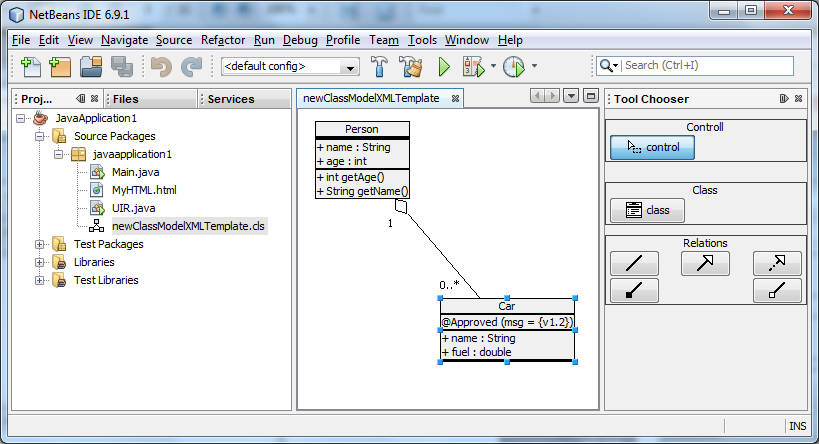
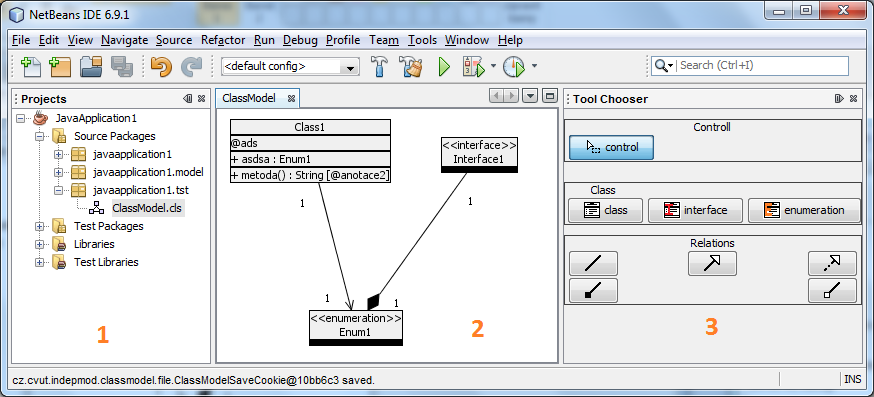
documentation

diff --git a/documentation/bachelor thesis/5_application.tex b/documentation/bachelor thesis/5_application.tex
@@ -1,6 +1,6 @@
-\chapter{Architecture}
+\chapter{Application Architecture and its Implementation}
 
-In the Figure \ref{f-screenSmallModule} you can see the print screen of running application. The whole window system (window, menus, etc.) is provided by Netbeans platform. On the left side you can see the project tree, which is the standard component of Netbeans platform (frequently used e.g. in Netbeans IDE). Next to the project tree there is a workspace where user can create and manage his/her class model. On the right side there is a panel, called Tool Chooser, which is used for tool selection (tool for new class addition, etc.).
+In the Figure \ref{f-screenSmallModule} you can see the print screen of the running application. The whole window system (window, menus, etc.) is provided by Netbeans platform. On the left side (number 1) you can see the project tree, which is the standard component of Netbeans platform (frequently used e.g. in Netbeans IDE). Next to the project tree there is a workspace (number 2) where user can create and manage his/her class model. On the right side there is a panel (number 3), called Tool Chooser, which is used for tool selection (tool for new class addition, etc.).
 
 \begin{figure}[!ht]
 \begin{center}
@@ -15,7 +15,7 @@ Indepmod Class Notation plugin consists of several modules which provides its fu
 \begin{itemize}
 	\item Editor - the main module of the Indepmod Class Notation plugin. This module takes care about whole class modeling. It handles the workspace and its user interface can be seen in the Figure \ref{f-screenSmallModule} between Project Tree and Tool Chooser panels. The workspace has a JGraph inside which controls whole class modeling.
     \item API - this module provides a public API (interfaces). Implementations of these interfaces can be found (e.g. by other Netbeans plugins) in the Lookup of the workspace (part of the Editor module). This module is public so it can be used (imported as a library) by any other plugin.
-    \item Tool Chooser - allows the user to choose a tool of actual selected workspace. The user interface of the module is a panel with single tools in it (e.g. a class or a relation between classes).
+    \item Tool Chooser - allows user to choose a tool of actual selected workspace. The user interface of the module is a panel with single tools in it (e.g. a class or a relation between classes).
     \item JGraph - this module is used as a library wrap for JGraph (it allows other modules to use JGraph framework).
 \end{itemize} 
 
@@ -24,14 +24,14 @@ Figure \ref{f-Editor_ToolChooser_Components} illustrates the relation between Ed
 \begin{figure}[!ht]
 \begin{center}
 \includegraphics{img/Editor_ToolChooser_Components.png}
-\caption{Component diagram of Editor and ToolChooser Modules}
+\caption{Component diagram of Editor and ToolChooser Modules (created in Enterprise Architect)}
 \label{f-Editor_ToolChooser_Components}
 \end{center}
 \end{figure}
 
 \section{API Module}
 
-This module defines interfaces (or classes) whose implementations can be found in the lookup of the workspace (workspace is the part of the editor module). This module is public so it can be used by any other module (or any other plugin). There are two packages in this module:
+This module defines interfaces whose implementations can be found in the lookup of the workspace (workspace is the part of the editor module). Purpose of these interfaces are described in next sections. This module is public so it can be used by any other module (or any other plugin). There are two packages in this module:
 
 \begin{itemize}
     \item cz.cvut.indepmod.classmodel.api.model
@@ -41,7 +41,7 @@ This module defines interfaces (or classes) whose implementations can be found i
 \subsection{ClassModel API}
 \label{section:classModelAPI}
 
-This package contains interfaces whose implementation can be used to access the information about class model. Lookup of the workspace contains the implementation of the IClassModelModel interface. This object provides the information about the type of a model (business model / class model), list of elements from the model (IElement interface) and the picture of the model. IElement represents a class, an interface or an enumeration. Elements provides the list of annotations (IAnotation interface), attributes (IAttribute interface), methods (IMethod interface) and relations to other classes(IRelation interface). And so on with the attributes, etc. 
+This package contains interfaces whose implementation can be used to access the information about class model. Lookup of the workspace contains the implementation of the IClassModelModel interface. This object provides the information about the type of a model (business model / class model), list of elements from the model (IElement interface) and the picture of the model. IElement represents a class, an interface or an enumeration. Elements provides the list of annotations (IAnotation interface), attributes (IAttribute interface), methods (IMethod interface) and relations to other classes(IRelation interface). And so on with the attributes, etc. These interfaces represents the structure of the class model meta-model, described in section \ref{classModelMetaModel}.
 
 Relation between (two) classes is represented by instance of IRelation interface. IElement returns the list of IRelations that belongs to it. IRelation holds information about its type (simple relation, composition, agregation, generalization, implementation) and about what element is at the beginning and at the end of the relation, including cardinalities. 
 
@@ -121,12 +121,12 @@ In the layer.xml file there is set the action for opening the ToolChooser (in ru
 
 \section{Editor Module}
 
-This is the fundamental module whose purpose is to create a workspace which provides the class modeling. For graphical part of class modeling is used framework JGraph (\url{http://www.jgraph.com}). More info about JGraph framework can be found in \cite{jgraphmanual}.
+This is the fundamental module whose purpose is to create a workspace which provides the class modeling. For graphical part of class modeling is used framework JGraph (\cite{JGraphWeb}). More info about JGraph framework can be found in \cite{jgraphmanual}.
 
 \subsection{Module Structure}
 \label{section:editorModuleStructure}
 
-Main class (part of the cz.cvut.indepmod.classmodel.workspace package), which comprises the workspace, is the ClassModelWorkspace. Thus, if you want to study the code, you should start right here. ClassModelWorkspace is extended from the TopComponent. This class is responsible for whole initialization. It creates:
+Main class (part of the cz.cvut.indepmod.classmodel.workspace package), which represents the workspace, is the ClassModelWorkspace. Thus, if you want to study the code, you should start right here. ClassModelWorkspace is extended from the TopComponent. This class is responsible for whole initialization. It creates:
 \begin{itemize}
     \item ClassModelGraph - this class is extended from JGraph and represents the class model graph to the user. Instance of this class is situated inside the ClassModelWorkspace component (JGraph is also derived from JComponent)
     \item ClassModelModel - Implementation of IClassModelModel which returns the list of classes that are in the class model and the type of the diagram (class or business model). The purpose of IClassModelModel interface is described in the section \ref{section:classModelAPI}.
@@ -135,7 +135,7 @@ Main class (part of the cz.cvut.indepmod.classmodel.workspace package), which co
 
 ClassModelWorkspace is simply JComponent (TopComponent) which has the JGraph inside. JGraph presents the class model to the user. There are cells (representing classes) which are related together by edges (representing relations).
 
-In next section I will try to describe the implementation of the Editor Module. I Will start from the initialization and after that I will try to explain every part that is created during the initialization.
+In the next section I will try to describe the implementation of the Editor Module. I Will start from the initialization and after that I will try to explain every part that is created during the initialization.
 
 \subsection{Editor Module Initialisation}
 
@@ -268,12 +268,12 @@ These methods are treated as template methods so they can be overrode. The abstr
 
 The BusinessModelEditClassDialog is extended from the abstract controller and overrides methods that creates annotation and method panels. It overrides them in a way that it returns an null pointer. The abstract view compose its UI of these parts and when a part is null, it is not added there. The ClassModelEditClassDialog does not override any method because all desired functionality is done in its predecessors.
 
-These dialogs are created by an Abstract Factory. The Abstract Factory is situated in the cz.cvut.indepmod.classmodel.frames.dialogs.factory package and is called AbstractDialogFactory. It has a static method which accepts the type of the diagram and returns an instance of a concrete factory. This concrete factory creates the dialog. Please take a look at the javadoc of this project for more information about the names of methods, etc. For more information about the Abstract Factory design pattern take a look at the \cite{DesignPatterns}.
+These dialogs are created by an Abstract Factory. The Abstract Factory class is placed in the cz.cvut.indepmod.classmodel.frames.dialogs.factory package and is called AbstractDialogFactory. It has a static method which accepts the type of the diagram and returns an instance of a concrete factory. This concrete factory creates the dialog. Please take a look at the javadoc of this project for more information about the names of methods, etc. For more information about the Abstract Factory design pattern take a look at the \cite{DesignPatterns}.
 
 \subsection{Persistence}
 \label{subsection:persistence}
 
-Persistence layer implementation is situated in the cz.cvut.indepmod.classmodel.persistence.xml package. There is a ClassModelXMLCoder class that is created as a singleton. Instance of this class is responsible for encoding and decoding the ClassModelDiagramDataModel instance into or from a stream (InputStream or OutputStream). Its method for encoding, encode(ClassModelDiagramDataModel model, OutputStream stream), is called by SaveCookie (discussed in the section \ref{subsection:lookup}).
+Persistence layer implementation is situated in the cz.cvut.indepmod.classmodel.persistence.xml package. There is a ClassModelXMLCoder class that is created as a singleton. Instance of this class is responsible for encoding and decoding the ClassModelDiagramDataModel instance into or from a stream (InputStream or OutputStream). Its method for encoding, \texttt{encode(ClassModelDiagramDataModel model, OutputStream stream)}, is called by SaveCookie (discussed in the section \ref{subsection:lookup}).
 
 ClassModelXMLCoder uses java.beans.XMLEncoder and java.beans.XMLDecoder. This creates the xml file that represents the steps to create the exactly same object that was encoded. Because XMLEncoder can encode in default only some types of objects, there are some persistence delegates that allow to encode particular object I use. These persistence delegates can be found in the cz.cvut.indepmod.classmodel.persistence.xml.delegate package.
 
@@ -299,7 +299,7 @@ ToolChooserModel instance is used by ToolChooser Module to set the desired tool.
 
 ClassModelModel instance implements the IClassModelModel interface and can be also used by other plugins. It provides the Class Model API to the outside world. Thanks to this there can be for example another plugin that will generate the code from the class model of this module.
 
-When user does any change into the model (add new class, new relation between classes, change the attribute of the class or something similar), ClassModelWorkspace inserts a SaveCookie instance into its Lookup. This tells the Netbeans platform that this component is changed and can be saved (save action in File menu is enabled). When user calls this action, the SaveCookie tells the ClassModelXMLCoder to save the GraphLayoutCache into the associated file. When it is done, this SaveCookie implementation is removed from the Lookup, so the Netbeans platform knows that the component does not have to be saved.
+When user does any change in the model (add new class, new relation between classes, change the attribute of the class or something similar), ClassModelWorkspace inserts a SaveCookie instance into its Lookup. This tells the Netbeans platform that this component is changed and can be saved (save action in File menu is enabled). When user calls this action, the SaveCookie tells the ClassModelXMLCoder to save the GraphLayoutCache into the associated file. When it is done, this SaveCookie implementation is removed from the Lookup, so the Netbeans platform knows that the component does not have to be saved.
 
 \subsubsection{Lookup example}
 
@@ -334,3 +334,5 @@ public final class MyAction implements ActionListener {
     }
 }
 \end{lstlisting}
+
+On the line 16, there is a command, that loads the implementation of IClassModelModel from an active workspace. \texttt{Utilities.actionsGlobalContext()} returns the Lookup of the active workspace. Active workspace is the TopComponent which the user is working with. This Lookup instance is consequently asked to return the implementation of the IClassModelModel interface.

diff --git a/documentation/bachelor thesis/3_analysis.tex b/documentation/bachelor thesis/3_analysis.tex
@@ -10,7 +10,7 @@ There are a lot of applications that provides the class modeling. Basic appearan
 
 Every class diagram modeller has to be able to depict the basic elements of the class diagram as were described in section \ref{section:classDiagramDescription}. Existing modellers provides another functionality like information about complexities of single classes, their constraints, statuses, requirements, notes and many others. It is a lot of functionality that can not be created during one bachelor project but it can be implemented in a related project.
 
-Main aim of this project is to implement a metamodel of the class diagram. Developers of CASE system does not treat UML diagrams like diagrams. For them, the basics of UML diagram is the metamodel and the diagram is only its graphical representation. The metamodel represents the structure of the diagram and is standardly represented by an UML class diagram. The metamodel is not used only in conjunction with UML diagrams. The metamodel can be used to represent the abstraction of any other problem. The reason why I use the metamodel in conjunction with the UML diagram is that the OMG\footnote{OMG - Object Management Group - is a consortium which created (among others) the UML specification.} defined its UML standard by use of metamodel. The structure of the metamodel that will be implemented in this project is described in next section \ref{section-metamodel}.
+Main aim of this project is to implement a meta-model of the class diagram. Developers of CASE system does not treat UML diagrams like diagrams. For them, the basics of UML diagram is the meta-model and the diagram is only its graphical representation. The meta-model represents the structure of the diagram and is standardly represented by an UML class diagram. The meta-model is not used only in conjunction with UML diagrams. The meta-model can be used to represent the abstraction of any other problem. The reason why I use the meta-model in conjunction with the UML diagram is that the OMG\footnote{OMG - Object Management Group - is a consortium which created (among others) the UML specification.} defined its UML standard by use of meta-model. The structure of the meta-model that will be implemented in this project is described in next section \ref{section-metamodel}.
 
 A feature that is not a common one and is implemented in the Indepmod Class Notation Modeller is an annotation modelling. It provides the ability to annotate a class, a method or an attribute. Annotations are used in the Java programming language from version 1.5 and in the C\# programming language. Annotations are form of metadata which are stored in the source code. This metadata specifies another features of that class/method/attribute. Alternative to annotations are configuration files (very often of XML type) that hold these information. Annotations (or XML configuration files) are often used by frameworks. An example can be the JPA\footnote{JPA - Java Persistence API} framework of Java EE\footnote{Java EE - Java Enterprise Edition} that uses these metadata for the definition of object relation mapping (ORM)\footnote{Object Relation Mapping - a technique that maps objects of object oriented software into tables of relation database}. In a former version of java, these metadata were stored in XML configuration files (very often inside one XML file). When there was a lot of classes to be configured, these configuration files were very large and confusing. On the other hand, annotations allow to specify these configurations inside the classes. This means that if you want to see or edit a class configuration, you don't have to search it in a file with maybe hundreds or thousands lines. Instead, you will open a desired class and find these information right there.
 
@@ -20,23 +20,24 @@ The Indepmod Class Diagram Plugin will be also able to provide its diagram data 
 
 At the end of this section I would like to recapitulate three main requirements on the Indepmod Class Diagram Plugin. These requirements are:
 \begin{itemize}
-    \item Implement the standard class diagram modelling tool,
-    \item it will also have a special feature for annotation modelling,
-    \item created model will be provided to other Netbeans plugin by an public API.
+    \item The system will allow to create a class model according to the chapter \ref{section:classDiagramDescription}.
+    \item The system will allow to create both platform independent model and platform specific model.
+    \item The system will provide an annotation modeling functionality.
+    \item System will provide an API which will allow other Netbeans plugins to access created diagram.
 \end{itemize}
 
-\subsection{Class Diagram Metamodel}
+\subsection{Class Diagram Meta-model}
 \label{section-metamodel}
 
 \begin{figure}[!ht]
 \begin{center}
-\includegraphics[scale=1]{img/classDiagramMetamodel.png}
-\caption{Class Diagram Metamodel}
+\includegraphics[width=\textwidth]{img/classDiagramMetamodel.png}
+\caption{Class Diagram Meta-model}
 \label{f-classDiagramMetamodel}
 \end{center}
 \end{figure}
 
-Figure \ref{f-classDiagramMetamodel} shows the metamodel of the class diagram that Indepmod Class Notation uses. From this metamodel you can see what the Indepmod Class Notation can and what it can not to model. Main building block of whole class diagram is an Element. The Element can be a Class, an Interface or an Enumeration. Every Element has a visibility, a stereotype (which can be empty) and a name. Each Element defines a data type identified by its name. In addition to the stereotype and the name, the Element has also the list of annotations, attributes and methods.
+Figure \ref{f-classDiagramMetamodel} shows the meta-model of the class diagram that Indepmod Class Notation uses. From this meta-model you can see what the Indepmod Class Notation can and what it can not to model. Main building block of whole class diagram is an Element. The Element can be a Class, an Interface or an Enumeration. Every Element has a visibility, a stereotype (which can be empty) and a name. Each Element defines a data type identified by its name. In addition to the stereotype and the name, the Element has also the list of annotations, attributes and methods.
 
 An Attribute has a name, a visibility and represents a data type. This data type can be the data type of an Element that we have already created or it can be another else data type (like String or int data type in Java). The Attribute can also have several (or none) Annotations. A Method is also defined by a name and has a visibility. The Attributes owned by the Method represents the parameters and the data type represents what the method returns. An Annotation has a name and can have several Annotation Attributes. Each Annotation Attribute has the name and a list of values.
 

diff --git a/documentation/bachelor thesis/2_classdiagram.tex b/documentation/bachelor thesis/2_classdiagram.tex
@@ -27,7 +27,7 @@ As it has been already said in the last paragraph, there can be relations betwee
     \item Association - this relation type defines a feature of the source class\footnote{In this chapter when I write the source or the target class, I will not mean only a class, but also an interface or an enumeration. If it is not, I will point it out.}. In the class diagram it is depicted as a solid line which leads from the source class to the target class (the target class defines the data type of the feature). The relation can be unidirectional (only source class has the pointer to the target) or bidirectional (both source and target class has the pointer to each other). The relation can also have a simple arrow defining the relation's direction (unidirectional or bidirectional). On the end of the direction (the side where the arrow is) there is the name and cardinality of the feature. You can see an association example in the Figure \ref{f-exampleAssociation}.
     \item Aggregation - defines that the target class is a part of the source class. This relation is depicted as a solid line with a blank diamond on the start (on the side where the starting/owning class is). An example of the Aggregation is shown in the Figure \ref{f-exampleAggregation}.
     \item Composition - represents stronger relation than the Aggregation. Composition tells us that when the owner object (instance of the class) is destroyed, the owned object will be destroyed as well. Composition is depicted by a solid line with a filled diamond on the start. Figure \ref{f-exampleComposition} shows an example of the Composition.
-    \item Generalization - this relation defines that source class is derived from the target class. There are some restrictions for this relation. Class can be derived only from class (not from interface) and interface can be derived again only from interface. Realisation is depicted as a solid line with a solid arrow on the end. AN example of this relation can be found in the figure \ref{f-exampleGeneralization}
+    \item Generalization - this relation defines that source class is derived from the target class. There are some restrictions for this relation. Class can be derived only from class (not from interface) and interface can be derived again only from interface. Realisation is depicted as a solid line with a solid arrow on the end. An example of this relation can be found in the figure \ref{f-exampleGeneralization}
     \item Realisation - defines that a class (not an interface) implements an interface. Realisation is shown as a dashed line with a solid arrow on the end. The example is shown in the Figure \ref{f-exampleRealisation}
 \end{itemize}
 
@@ -58,13 +58,14 @@ As it has been already said in the last paragraph, there can be relations betwee
 \end{center}
 \end{figure}
 
-\section{Meta-Model}
+\section{Meta-Model of a Class Model}
+\label{classModelMetaModel}
 
-The UML defines a notation and a meta-model. The notation is the graphical representation which can be seen in diagrams (e.g. in the class diagram). The meta-model is used to define the concepts of a language. It is represented by a diagram (very often it is a class diagram) which depicts all of its components. Meta-model is very important for developers of CASE tools because it defines the UML structure, which can be translated into the code. Person, which only creates (paints) the diagram does not need to be bothered by the existence of meta-model.
+The UML defines a notation and a meta-model. The notation is the graphical representation which can be seen in diagrams (e.g. in the class diagram). The meta-model is used to define the concepts of a model. It is represented by a diagram (very often it is a class diagram) which depicts all of its components. Meta-model is very important for developers of CASE tools because it defines the UML structure, which can be translated into the code. Person, which only creates (paints) the diagram does not need to be bothered by the existence of meta-model.
 
-The UML's meta-model is very complex and is not shown here. It depicts the UML structure on very abstract level. Due to this fact it can be quite easily extended.
+The UML's meta-model is very complex and is not shown here. It depicts the UML structure on very abstract level. Due to this fact it can be quite easily extended. For information about class model meta-model I used the information from \cite{UMLDistilled} and \cite{ArlowUML}. Some information can be found also in \cite{UMLWeb}.
 
-\section{Diagram types}
+\section{Platform Independend and Platform Specific Model}
 \label{ClassDiagramDiagramTypes}
 
 In a computer engineering, class diagram is used for both conceptual modeling (business modeling) and class modeling on platform level, which is consequently translated into a programming language (into the programming code).
@@ -82,4 +83,6 @@ The application that inspired me most was Enterprise Architect from Sparx System
 \begin{itemize}
     \item Enterprise Architect - Professional CASE tool for easy creation of UML diagrams and much more. More info in \cite{sparxsystemsweb}.
     \item ArgoUML - Open Source UML Modeling tool based on Java programming language. More info in \cite{ArgoUMLWeb}.
+    \item MagicDraw - Business process, architecture, software and system modeling tool with teamwork support. More info in \cite{MagicDrawWeb}.
+    \item StarUML - Open Source UML Modeling tool running on Win32 platform. More info in \cite{StarUMLWeb}.
 \end{itemize}

diff --git a/documentation/bachelor thesis/1_introduction.tex b/documentation/bachelor thesis/1_introduction.tex
@@ -1,11 +1,11 @@
 \chapter{Introduction}
 
-Nowadays in the software engineering the main emphasis is (in addition to the customer needs and in addition to meet the defined development time, price and the desired quality) on the reusability, maintainability and testability of the software, its rapid development, etc. One important part of the software development is the model creation (or modeling). The model depicts the most important parts of the software and helps the developer to understand the problematic. Probably the most known and the most used model is the UML\footnote{UML - Unified Modeling Language} Class Diagram. There are a lot of tools which are able to create it but very often they can't be used for free.
+The main emphasis of the software engineering is (in addition to the customer needs and in addition to meet the defined development time, price and the desired quality) on the reusability, maintainability and testability of the software, its rapid development, etc. One important part of the software development is the model creation (or modeling). The model depicts the most important parts of the software and helps the developer to understand the problematic. Probably the most known and the most used model is the UML\footnote{UML - Unified Modeling Language} Class Diagram. There are a lot of tools which are able to create it but very often they are under commercial licence.
 
-This bachelor thesis deals with an implementation of Netbeans plugin which will be used for class modeling. I chose this theme because of two main reasons. The first reason is that it is not a standard information system (or something similar) that can be created with no need to learn new technologies (these systems are based on usage of well-known common frameworks). In this project I will learn to work with new frameworks like JGraph (section \ref{section:JGraph}) and Netbeans Platform (section \ref{section:netbeansAPI}). The second reason is that this project can produce an useful system which can be extended e.g. within the scope of another thesis. Of course, the result of one bachelor thesis cannot produce more sophisticated system than the existing (paid) ones, but it provides a good basis for further expansion. This project is a part of the bigger whole - there are several projects that creates other modeling tools. These tools could be joined together in the future.
+This bachelor thesis deals with an implementation of Netbeans plugin which will be used for class modeling. I chose this theme because of two main reasons. The first reason is that it is not a standard information system (or something similar) that can be created with no need to learn new technologies (these systems are based on usage of well-known common frameworks). In this project I will learn to work with new frameworks like JGraph (section \ref{section:JGraph}) and Netbeans Platform (section \ref{section:netbeansAPI}). The second reason is that this project can produce an useful system which can be extended e.g. within the scope of another thesis. Of course, the result of one bachelor thesis cannot produce more sophisticated system than the existing (paid) ones, but it can provide a good basis for further expansion. This project is a part of the bigger whole - there are several projects that creates other modeling tools. All of these tools could be joined together in the future.
 
 At the beginning I would like to point out that this work is not a recherche one. I didn't try to compare several possible solutions of the problem but I tried to create a solution of the problem. Despite the fact that I have been inspired by several existing systems, these systems are not described in a detail. In this thesis I focused on the description of the implementation and thus it should be easy to implement similar system according to it.
 
-The structure of this thesis is divided several parts. The first part brings some information about the class diagram. Next part is called Analysis and contains the information about the functionality of the program from the view of the user and a little info about existing solutions that inspired me. Third part is about used frameworks. Fourth part is called Application and consists of implementation documentation. In this part there is a description of how the system works inside and of some interesting subsystems. The last part is the Testing.
+The structure of this thesis is divided several parts. The first part brings some information about the class diagram. Next part is called Analysis and contains the information about the functionality of the program from the view of the user and a little info about existing solutions that inspired me. Third part is about used frameworks. Fourth part is called Application and consists of implementation documentation. In this part there is a description of how the system works inside and of some interesting subsystems. The last part is about Testing.
 
-At the end of this chapter I would like to point out that all class diagrams shown in this thesis were created by this application (called Indepmod Class notation plugin). I think that it is a good proof that it really works.
+At the end of this chapter I would like to point out that all class diagrams shown in this thesis were created by this application (called Indepmod Class notation plugin). I think that it is a good proof that my implementation really works.

diff --git a/documentation/bachelor thesis/7_conclusion.tex b/documentation/bachelor thesis/7_conclusion.tex
@@ -5,10 +5,10 @@
 Indepmod Class Notation plugin is already an useful class modeling tool. It provides standard class modeling functionality, plus the annotation modeling feature. On the other hand, there some other things that could be done on this project. I will mention some of them, but it will not be all - the imagination has no limits. The things that I will mention could be implemented in a related bachelor, master or semestral project. These new functionalities are e.g.:
 
 \begin{itemize}
-    \item Ability to keep more information about elements (classes, interfaces, ...) and relations like its description, version, complexity, OCL\footnote{OCL - Object Constraint Language} support, and so on.
-    \item The list of languages (that are displayed during the diagram creation) could be loaded from an XML (or any other) file. This could be done e.g. by usage of JAXB\footnote{JAXB - Java Api for Xml Binding} technology.
+    \item Ability to keep more information about elements (classes, interfaces, ...) and relations like their description, version, complexity, OCL\footnote{OCL - Object Constraint Language} support, and so on.
+    \item The list of languages (that are displayed during the diagram creation) could be loaded from an XML (or any other) file. This could be done e.g. by usage of JAXB\footnote{JAXB - Java Api for Xml Binding} technology. This functionality would allow to simply add new language definitions (only by editing the XML file).
     \item User Interface (design and control) improvements. E.g. the key shortcuts addition or transformation of the tool chooser panel into the Netbeans palette.
-    \item More options of persistence (e.g. a relational database) - possibility to choose if diagrams will be stored into a xml file, into a relational database or into something else.
+    \item More options of persistence (e.g. a relational database) - possibility to choose if diagrams will be stored into a xml file, into a relational database or into something else - and optimization of existing solution (e.g. create own structure of elements to be saved).
     \item Indepmod class notation plugin could allow to create a hierarchic structure of class diagrams. Every level would depicts the class diagram of a package. This would be very useful in conjunction with source code generation.
 \end{itemize}
 
@@ -18,8 +18,8 @@ Because this project is a part of several related projects, there is another thi
 
 In this project I dealt with the creation of the rich client class modeling tool, called Indepmod Class Notation Plugin. Thanks to this project I gain an experience with new technologies like Netbeans platform and JGraph framework for which I am very thankful. 
 
-The task of this project was accomplished properly. Plus, there was added another functionality like language selection in new diagram creation. The importance of this feature is very important for class diagram modeling on platform level. It has been already described in the section \ref{ClassDiagramDiagramTypes}.
+The task of this project was accomplished properly. It means that all requirements like the possibility to create both platform specific and platform independent model, annotation modeling functionality and a public API which allows other Netbeans plugins to access created diagram were implemented. Plus, there was added another functionality like language selection in new diagram creation. This feature is very important for class diagram modeling on platform level. It has been already described in the section \ref{ClassDiagramDiagramTypes}.
 
 Among the project's benefit I would like to mention especially the annotation modeling support. I think that this functionality is very useful and I think that some of existing applications should implement it too (I wonder why it hasn't yet been implemented).
 
-Thing that could have been done better is e.g. the impossibility to compose class diagrams into the hierarchical structure. This is done e.g. in the Enterprise Architect. On the other hand, this project is only at the beginning of its lifetime, so this, and another else, functionality can be implemented in future. In short, this application can not be compared with existing solutions for now, but one time, maybe, it will.
+%Thing that could have been done better is e.g. the impossibility to compose class diagrams into the hierarchical structure. This is done e.g. in the Enterprise Architect. On the other hand, this project is only at the beginning of its lifetime, so this, and another else, functionality can be implemented in future. In short, this application can not be compared with existing solutions for now, but one time, maybe, it will.

diff --git a/documentation/bachelor thesis/6_testing.tex b/documentation/bachelor thesis/6_testing.tex
@@ -8,7 +8,7 @@ Automatic tests can be run whenever we want and can verify that all functions wo
 
 \section{JUnit}
 
-Because this project uses an agile methodology to create a product, the testing is slightly limited in comparison with other methodologies. For automatic test purposes I use the JUnit framework. The JUnit is well known framework which is used for unit tests creation in Java platform.
+For automatic test purposes I use the JUnit framework. The JUnit is well known framework which is used for unit tests creation in Java platform.
 
 An Unit test is a test which tests the units\footnote{Unit is the smallest part of our application which can be tested alone. It means that it can be built and run.} of our application apart the others. In procedural programming this unit can be an function or a procedure. In Object Oriented programming (OOP), this unit is often a class. The Unit test then tests methods of this class. Despite of the fact that Unit tests are primarily intended to test units, they are very often used for testing of class ensemble as well. If you don't know the JUnit framework, you can find some useful information in \cite{JUnitWeb}.
 
@@ -29,44 +29,46 @@ Because I don't want to test the UI repeatedly (or not very often) I decided to 
     \item Acer Aspire 3810TZ with Ubuntu 10.10 Maverick Meerkat (32bit)
 \end{itemize}
 
+During the development there were found some errors but they were repaired consequently. Final tests did not find any other failure. The Test Cases results are shown in next Table \ref{tab:UITCResults}.
+
 \begin{table}[!ht]
 \begin{center}
 \begin{tabular}{|l|c|c|}
 	\hline
 	{ \bf Test Case Name } & { \bf Windows } & { \bf Ubuntu } \\
 	\hline \hline
-	TC0      & Passed & Not run yet  \\
-	TC1      & Passed & Not run yet  \\
-   TC2      & Passed & Not run yet  \\
-   TC3      & Passed & Not run yet  \\
-   TC4      & Passed & Not run yet  \\
-   TC5      & Passed & Not run yet  \\
-   TC6      & Passed & Not run yet  \\
-   TC7      & Passed & Not run yet  \\
-   TC8      & Passed & Not run yet  \\
-   TC9      & Passed & Not run yet  \\
-   TC10     & Passed & Not run yet  \\
-   TC11     & Passed & Not run yet  \\
-   TC12     & Passed & Not run yet  \\
-   TC13     & Passed & Not run yet  \\
-   TC14     & Passed & Not run yet  \\
-   TC15     & Passed & Not run yet  \\
-   TC16     & Passed & Not run yet  \\
-   TC17     & Passed & Not run yet  \\
-   TC18     & Passed & Not run yet  \\
-   TC19     & Passed & Not run yet  \\
-   TC20     & Passed & Not run yet  \\
-   TC21     & Passed & Not run yet  \\
-   TC22     & Passed & Not run yet  \\
-   TC23     & Passed & Not run yet  \\
-   TC24     & Passed & Not run yet  \\
-   TC25     & Passed & Not run yet  \\
-   TC26     & Passed & Not run yet  \\
-   TC27     & Passed & Not run yet  \\
-   TC28     & Passed & Not run yet  \\
-   TC29     & Passed & Not run yet  \\
-   TC30     & Passed & Not run yet  \\
-   TC31     & Passed & Not run yet  \\
+	TC0      & Passed & Passed  \\
+	TC1      & Passed & Passed  \\
+   TC2      & Passed & Passed  \\
+   TC3      & Passed & Passed  \\
+   TC4      & Passed & Passed  \\
+   TC5      & Passed & Passed  \\
+   TC6      & Passed & Passed  \\
+   TC7      & Passed & Passed  \\
+   TC8      & Passed & Passed  \\
+   TC9      & Passed & Passed  \\
+   TC10     & Passed & Passed  \\
+   TC11     & Passed & Passed  \\
+   TC12     & Passed & Passed  \\
+   TC13     & Passed & Passed  \\
+   TC14     & Passed & Passed  \\
+   TC15     & Passed & Passed  \\
+   TC16     & Passed & Passed  \\
+   TC17     & Passed & Passed  \\
+   TC18     & Passed & Passed  \\
+   TC19     & Passed & Passed  \\
+   TC20     & Passed & Passed  \\
+   TC21     & Passed & Passed  \\
+   TC22     & Passed & Passed  \\
+   TC23     & Passed & Passed  \\
+   TC24     & Passed & Passed  \\
+   TC25     & Passed & Passed  \\
+   TC26     & Passed & Passed  \\
+   TC27     & Passed & Passed  \\
+   TC28     & Passed & Passed  \\
+   TC29     & Passed & Passed  \\
+   TC30     & Passed & Passed  \\
+   TC31     & Passed & Passed  \\
 	\hline
 \end{tabular}
 \caption{User Interface Test Cases Results}

diff --git a/documentation/bachelor thesis/4_frameworks.tex b/documentation/bachelor thesis/4_frameworks.tex
@@ -16,7 +16,7 @@ The Netbeans platform can be used either to create the whole desktop application
 \section{JGraph}
 \label{section:JGraph}
 
-JGraph is an opensource graph visualisation library which is based on Java Swing technology. It gives the developer great means to create a generic diagram, which is consisted of nodes and edges. JGraph provides several prefabricated components for graph nodes shapes or for edges shapes that connect these nodes. So if you want to create simple diagram you can use these prefabricated components. Of course, there is the possibility to create your own shapes too so if you want to create diagram with nodes of some special shapes you can do it.
+JGraph is an opensource graph visualisation library which is based on Java Swing technology. It gives the developer great means to create a generic diagram, which is consisted of nodes and edges. JGraph provides several prefabricated components for graph node shapes or for edges shapes that connect these nodes. So if you want to create simple diagram you can use these prefabricated components. Of course, there is the possibility to create your own shapes too so if you want to create diagram with nodes of some special shapes you can do it.
 
 Except the diagram visualisation, JGraph provides some other functionality like zooming of the drawing area, undo/redo support, drag\&drop of nodes and edges and many other. This framework will be used for visualisation of the class diagram. More information about this framework can be found in \cite{jgraphmanual}.
 
@@ -25,3 +25,5 @@ Except the diagram visualisation, JGraph provides some other functionality like 
 Because this thesis is about the Netbeans plugin creation and Netbeans platform is based on the Java language, there wasn't any other option than use the Java language. But it is not bad at all. Java is widely used object oriented programming language and thanks to its portability, the application can run on a lot of operating systems like Windows, Linux and so on.
 
 As a programming enviroment I use the Netbeans IDE. The Netbeans IDE is the best choice because it is created on the same platform as the plugin. Netbeans IDE provides the full support (Wizards, etc.) for the Netbeans plugin (or module and whole applications based on this platform) creation. The Netbeans platform is described in section \ref{section:netbeansAPI}.
+
+For source code version control I use Git versioning system. Git is an open source distributed version control system with emphasis on the speed and efficiency. It was created by Linus Torvalds who created it for purposes of Linux kernel development. As a remote repository I use Github\footnote{web pages of Github are http://github.com/}. For more information about Git version system take a look e.g. in \cite{GitWeb}.
